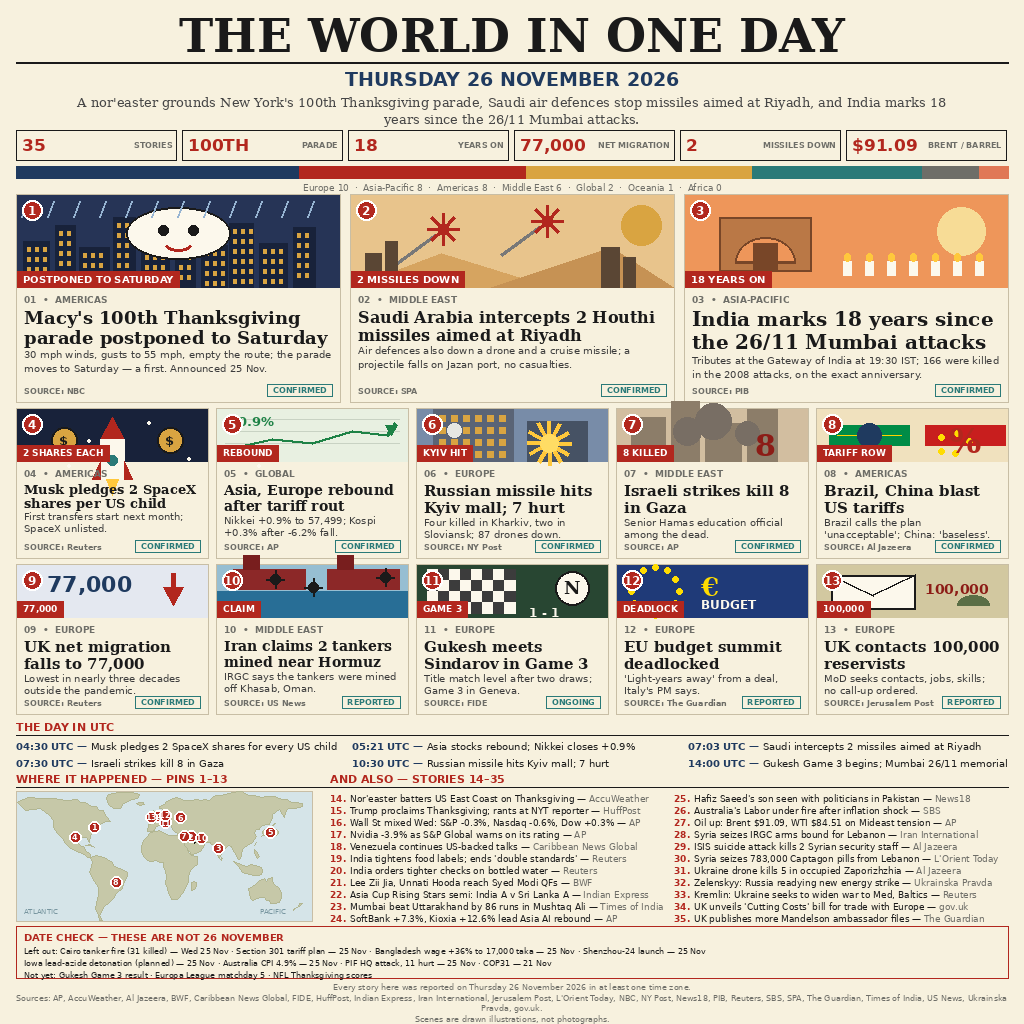
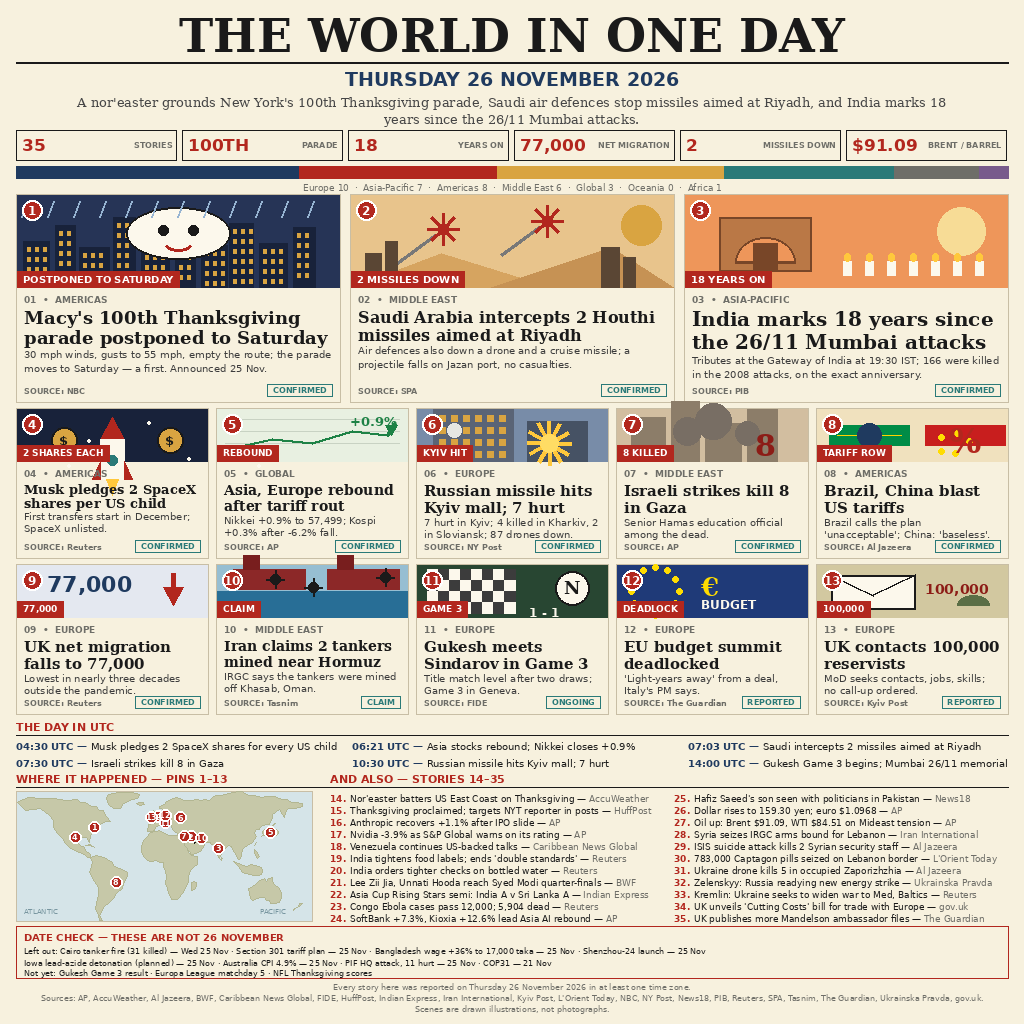
v2: 14 blind-judge fixes — Anthropic +1.1%, dollar/yen, Kyiv deck, quarter-finals, Captagon, NYT wording, Kyiv Post, Tasnim CLAIM, 06:21 UTC, December, chart label, Not yet +2px, Congo Ebola Africa

diff --git a/draw.py b/draw.py
@@ -63,7 +63,7 @@ PANELS = [
     dict(n=4, region="Americas", tag="CONFIRMED", src="Reuters",
          art="musk", chip="2 SHARES EACH",
          head="Musk pledges 2 SpaceX shares per US child",
-         deck="First transfers start next month; SpaceX unlisted."),
+         deck="First transfers start in December; SpaceX unlisted."),
     dict(n=5, region="Global", tag="CONFIRMED", src="AP",
          art="market", chip="REBOUND",
          head="Asia, Europe rebound after tariff rout",
@@ -71,7 +71,7 @@ PANELS = [
     dict(n=6, region="Europe", tag="CONFIRMED", src="NY Post",
          art="kyiv", chip="KYIV HIT",
          head="Russian missile hits Kyiv mall; 7 hurt",
-         deck="Four killed in Kharkiv, two in Sloviansk; 87 drones down."),
+         deck="7 hurt in Kyiv; 4 killed in Kharkiv, 2 in Sloviansk; 87 drones down."),
     dict(n=7, region="Middle East", tag="CONFIRMED", src="AP",
          art="gaza", chip="8 KILLED",
          head="Israeli strikes kill 8 in Gaza",
@@ -84,7 +84,7 @@ PANELS = [
          art="migration", chip="77,000",
          head="UK net migration falls to 77,000",
          deck="Lowest in nearly three decades outside the pandemic."),
-    dict(n=10, region="Middle East", tag="REPORTED", src="US News",
+    dict(n=10, region="Middle East", tag="CLAIM", src="Tasnim",
          art="hormuz", chip="CLAIM",
          head="Iran claims 2 tankers mined near Hormuz",
          deck="IRGC says the tankers were mined off Khasab, Oman."),
@@ -96,7 +96,7 @@ PANELS = [
          art="eu", chip="DEADLOCK",
          head="EU budget summit deadlocked",
          deck="'Light-years away' from a deal, Italy's PM says."),
-    dict(n=13, region="Europe", tag="REPORTED", src="Jerusalem Post",
+    dict(n=13, region="Europe", tag="REPORTED", src="Kyiv Post",
          art="reserves", chip="100,000",
          head="UK contacts 100,000 reservists",
          deck="MoD seeks contacts, jobs, skills; no call-up ordered."),
@@ -106,22 +106,22 @@ PANELS = [
 # fits on ONE line at 9pt in a 342px column.
 ALSO = [
     (14, "Nor'easter batters US East Coast on Thanksgiving", "AccuWeather"),
-    (15, "Trump proclaims Thanksgiving; rants at NYT reporter", "HuffPost"),
-    (16, "Wall St mixed Wed: S&P -0.3%, Nasdaq -0.6%, Dow +0.3%", "AP"),
+    (15, "Thanksgiving proclaimed; targets NYT reporter in posts", "HuffPost"),
+    (16, "Anthropic recovers +1.1% after IPO slide", "AP"),
     (17, "Nvidia -3.9% as S&P Global warns on its rating", "AP"),
     (18, "Venezuela continues US-backed talks", "Caribbean News Global"),
     (19, "India tightens food labels; ends 'double standards'", "Reuters"),
     (20, "India orders tighter checks on bottled water", "Reuters"),
-    (21, "Lee Zii Jia, Unnati Hooda reach Syed Modi QFs", "BWF"),
+    (21, "Lee Zii Jia, Unnati Hooda reach Syed Modi quarter-finals", "BWF"),
     (22, "Asia Cup Rising Stars semi: India A v Sri Lanka A", "Indian Express"),
-    (23, "Mumbai beat Uttarakhand by 86 runs in Mushtaq Ali", "Times of India"),
+    (23, "Congo Ebola cases pass 12,000; 5,904 dead", "Reuters"),
     (24, "SoftBank +7.3%, Kioxia +12.6% lead Asia AI rebound", "AP"),
     (25, "Hafiz Saeed's son seen with politicians in Pakistan", "News18"),
-    (26, "Australia's Labor under fire after inflation shock", "SBS"),
+    (26, "Dollar rises to 159.30 yen; euro $1.0968", "AP"),
     (27, "Oil up: Brent $91.09, WTI $84.51 on Mideast tension", "AP"),
     (28, "Syria seizes IRGC arms bound for Lebanon", "Iran International"),
     (29, "ISIS suicide attack kills 2 Syrian security staff", "Al Jazeera"),
-    (30, "Syria seizes 783,000 Captagon pills from Lebanon", "L'Orient Today"),
+    (30, "783,000 Captagon pills seized on Lebanon border", "L'Orient Today"),
     (31, "Ukraine drone kills 5 in occupied Zaporizhzhia", "Al Jazeera"),
     (32, "Zelenskyy: Russia readying new energy strike", "Ukrainska Pravda"),
     (33, "Kremlin: Ukraine seeks to widen war to Med, Baltics", "Reuters"),
@@ -131,7 +131,7 @@ ALSO = [
 
 TIMELINE = [
     ("04:30 UTC", "Musk pledges 2 SpaceX shares for every US child"),
-    ("05:21 UTC", "Asia stocks rebound; Nikkei closes +0.9%"),
+    ("06:21 UTC", "Asia stocks rebound; Nikkei closes +0.9%"),
     ("07:03 UTC", "Saudi intercepts 2 missiles aimed at Riyadh"),
     ("07:30 UTC", "Israeli strikes kill 8 in Gaza"),
     ("10:30 UTC", "Russian missile hits Kyiv mall; 7 hurt"),
@@ -296,7 +296,8 @@ def art_market(d, x, y, w, h):
     d.line(pts, fill=(30, 130, 70), width=3, joint="curve")
     d.polygon([(pts[-1][0] - 10, pts[-1][1] + 2), (pts[-1][0] + 2, pts[-1][1] + 2),
                (pts[-1][0] - 4, pts[-1][1] + 12)], fill=(30, 130, 70))
-    d.text((x + 10, y + 4), "+0.9%", font=SANS_B(13), fill=(30, 130, 70))
+    d.text((x + w - 10, y + 4), "+0.9%", font=SANS_B(13), fill=(30, 130, 70),
+           anchor="ra")
 
 
 def art_kyiv(d, x, y, w, h):
@@ -570,8 +571,8 @@ def render():
     # ALSO ON regions (parallel list, same order as ALSO)
     also_regions = ["Americas", "Americas", "Americas", "Americas", "Americas",
                     "Asia-Pacific", "Asia-Pacific", "Asia-Pacific",
-                    "Asia-Pacific", "Asia-Pacific", "Asia-Pacific",
-                    "Asia-Pacific", "Oceania", "Global", "Middle East",
+                    "Asia-Pacific", "Africa", "Asia-Pacific",
+                    "Asia-Pacific", "Global", "Global", "Middle East",
                     "Middle East", "Middle East", "Europe", "Europe",
                     "Europe", "Europe", "Europe"]
     assert len(also_regions) == len(ALSO)
@@ -703,7 +704,7 @@ def render():
            font=SANS_B(10), fill=RED)
     d.text((24, dy + 20), DATECHECK_LEFT[0], font=SANS(8), fill=INK)
     d.text((24, dy + 32), DATECHECK_LEFT[1], font=SANS(8), fill=INK)
-    d.text((24, dy + 44), DATECHECK_NOTYET, font=SANS(8), fill=INK)
+    d.text((24, dy + 42), DATECHECK_NOTYET, font=SANS(8), fill=INK)
     # ---- footer ----
     fy = 982
     d.text((W // 2, fy), "Every story here was reported on Thursday 26 November 2026 "
